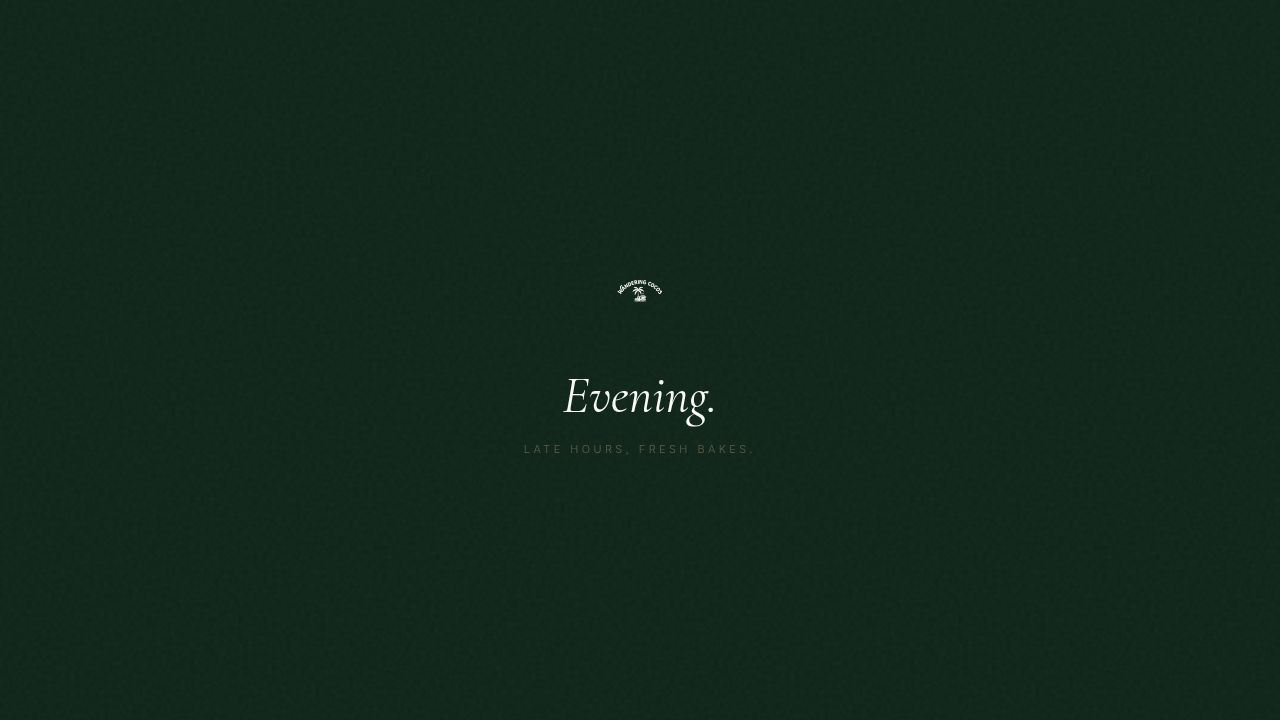
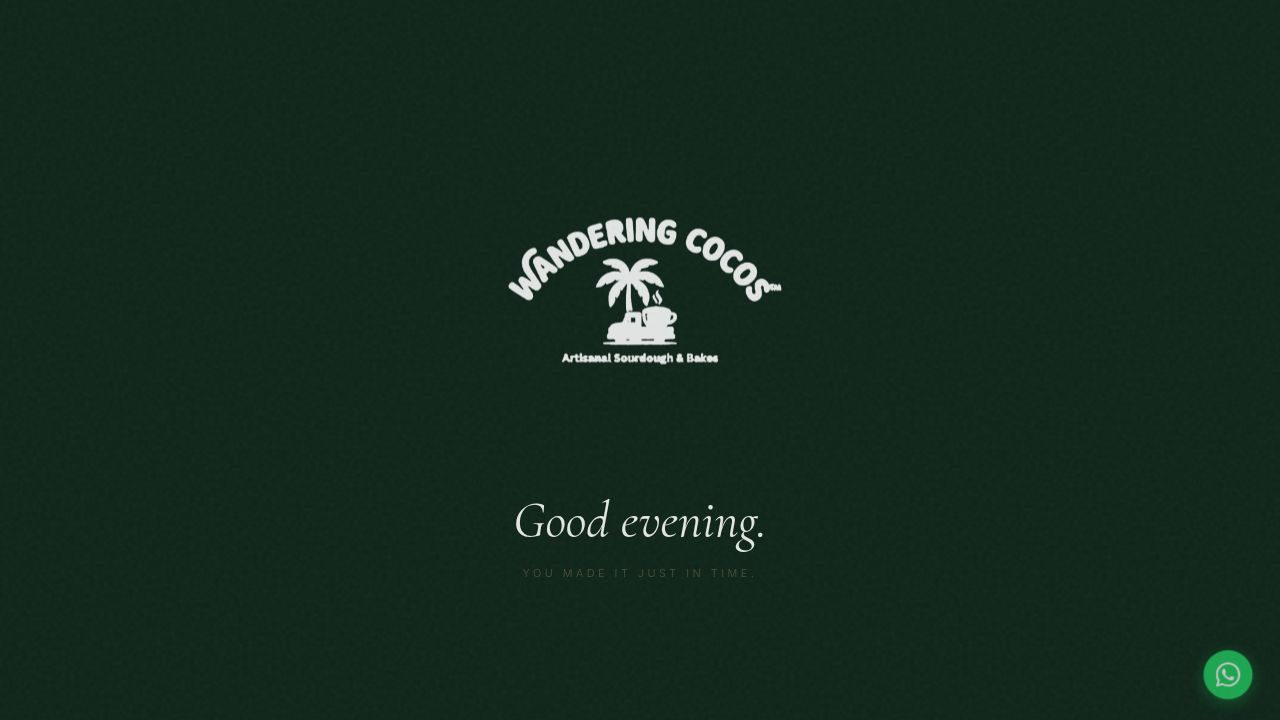
feat: Add "Chef on Break" site mode
Task #54 — Add a new `chef_on_break` site mode that communicates a
deliberate, unhurried pause in a tone that's personal and on-brand.

Changes:
- useSiteStatus.ts: Added `chef_on_break` to the SiteMode union type
- Admin.tsx: Added "Chef on Break" as a selectable option in the
  SITE_MODES array in the Site Status tab, with a plain-English
  description for the admin
- LandingPage.tsx: Two locations updated — hero CTA badge now shows
  "Chef on Break" and the philosophy stack CTA shows "Chef on Break ·
  Back soon" when this mode is active
- Reserve.tsx: Three locations updated — hero sub-label shows
  "Chef on Break · Back Soon", hero sub-copy reads the short pause
  message, and the order panel shows a dedicated Chef on Break card
  with the full copy: opening line, body paragraph, and the italic
  closing "Life is not a race. Cook slowly. Eat well. Enjoy the process."

No backend changes needed — the API accepts any string value for
site_mode; `chef_on_break` is stored and returned as-is.

The mode hides the order form, menu item list, price display, and
tote-bag highlight — consistent with maintenance/popup behaviour.

Follow-up proposed: Task #55 (notify-me waitlist for closed modes).

Changed region(s): [[0.4062, 0.3056, 0.625, 0.5806], [0.4062, 0.7028, 0.5938, 0.7639], [0.9375, 0.8861, 1.0, 0.9778]]

diff --git a/artifacts/wandering-cocos/src/pages/Reserve.tsx b/artifacts/wandering-cocos/src/pages/Reserve.tsx
@@ -143,6 +143,8 @@ export default function Reserve() {
                 ? "Pop-Up This Week · Online Orders Paused"
                 : siteMode === "maintenance"
                 ? "Coming Back Soon · Baking In Progress"
+                : siteMode === "chef_on_break"
+                ? "Chef on Break · Back Soon"
                 : <>{bakeWindow ? bakeWindow.label : "The Weekend Edit"} · <BakeDateDisplay date={BAKE_DATE} dark /></>}
             </motion.span>
             <motion.h1 initial="hidden" animate="visible" custom={1} variants={fadeUp}
@@ -175,6 +177,8 @@ export default function Reserve() {
                 ? "We're at a pop-up this week. Online orders are paused. We'll be back very soon."
                 : siteMode === "maintenance"
                 ? "We're baking in the background. Online orders will open with our next drop."
+                : siteMode === "chef_on_break"
+                ? "Taking a short pause to recharge, live a little more presently, and come back inspired."
                 : "Baked fresh on delivery day. Comes with a branded bag. Prepaid only. Limited bakes per drop."}
             </motion.p>
           </div>
@@ -285,6 +289,19 @@ export default function Reserve() {
                     className="inline-flex items-center justify-center h-11 px-8 text-xs tracking-[0.2em] uppercase font-medium border border-foreground/30 text-foreground hover:border-foreground/50 hover:text-foreground transition-all">
                     Follow on Instagram
                   </a>
+                </div>
+              ) : siteMode === "chef_on_break" ? (
+                <div className="border border-border/30 p-8" style={{ background: "hsl(38 25% 97%)" }}>
+                  <p className="text-[9px] tracking-[0.3em] uppercase font-medium text-[#2D2926] mb-5">Chef on Break</p>
+                  <p className="font-serif text-lg text-foreground leading-snug mb-5">
+                    Not everything in life needs to move fast.
+                  </p>
+                  <p className="text-sm text-[#2D2926] leading-relaxed mb-5">
+                    Some things are better done slowly — with care, with intention, and for the simple joy of doing them well. Good food, meaningful work, quiet mornings, long conversations. We're taking a short pause to recharge and come back more inspired than ever.
+                  </p>
+                  <p className="font-serif italic text-sm text-foreground/70 leading-relaxed">
+                    Life is not a race. Cook slowly. Eat well. Enjoy the process.
+                  </p>
                 </div>
               ) : (
               <>

diff --git a/artifacts/wandering-cocos/src/pages/LandingPage.tsx b/artifacts/wandering-cocos/src/pages/LandingPage.tsx
@@ -315,7 +315,7 @@ function PhilosophyStackSection() {
                   </button>
                 ) : (
                   <span className="text-xs tracking-[0.22em] uppercase font-medium px-6 py-2" style={{ color: "rgba(255,255,255,0.45)", border: "1px solid rgba(255,255,255,0.18)" }}>
-                    {siteMode === "sold_out" ? "Sold Out · Next drop coming soon" : siteMode === "popup" ? "Pop-Up this week · Orders resume next week" : "Baking in progress · Check back soon"}
+                    {siteMode === "sold_out" ? "Sold Out · Next drop coming soon" : siteMode === "popup" ? "Pop-Up this week · Orders resume next week" : siteMode === "chef_on_break" ? "Chef on Break · Back soon" : "Baking in progress · Check back soon"}
                   </span>
                 )}
                 <p className="text-xs tracking-widest uppercase mt-4 font-light" style={{ color: "rgba(245,238,224,0.75)" }}>
@@ -422,7 +422,7 @@ export default function LandingPage() {
                 </button>
               ) : (
                 <span className="w-full sm:w-64 h-14 flex items-center justify-center text-xs tracking-[0.18em] uppercase font-medium whitespace-nowrap border border-white/20 text-white/40">
-                  {siteMode === "sold_out" ? "Sold Out" : siteMode === "popup" ? "Orders Paused" : "Coming Soon"}
+                  {siteMode === "sold_out" ? "Sold Out" : siteMode === "popup" ? "Orders Paused" : siteMode === "chef_on_break" ? "Chef on Break" : "Coming Soon"}
                 </span>
               )}
               <button

diff --git a/artifacts/wandering-cocos/src/pages/Admin.tsx b/artifacts/wandering-cocos/src/pages/Admin.tsx
@@ -485,6 +485,11 @@ const SITE_MODES = [
     label: "Maintenance",
     description: "Shows a holding message: 'Baking in progress — check back soon.'",
   },
+  {
+    id: "chef_on_break",
+    label: "Chef on Break",
+    description: "Shows a warm, personal pause message: the chef is recharging and will return inspired. Orders are hidden.",
+  },
 ] as const;
 
 function SiteModeTab({ token }: { token: string }) {

diff --git a/artifacts/wandering-cocos/src/hooks/useSiteStatus.ts b/artifacts/wandering-cocos/src/hooks/useSiteStatus.ts
@@ -2,7 +2,7 @@ import { useState, useEffect } from "react";
 
 const BASE = import.meta.env.BASE_URL.replace(/\/$/, "");
 
-export type SiteMode = "bake_day" | "popup" | "maintenance" | "sold_out";
+export type SiteMode = "bake_day" | "popup" | "maintenance" | "sold_out" | "chef_on_break";
 
 export function useSiteStatus() {
   const [mode, setMode] = useState<SiteMode>("bake_day");
